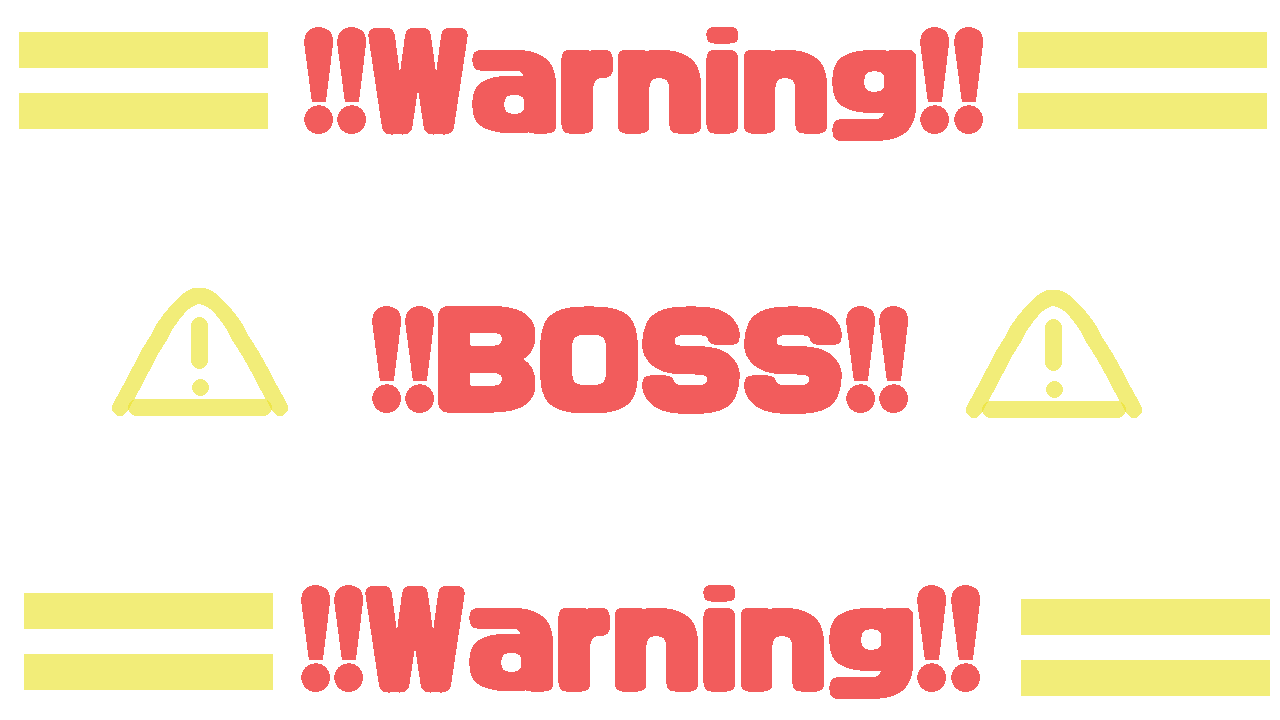
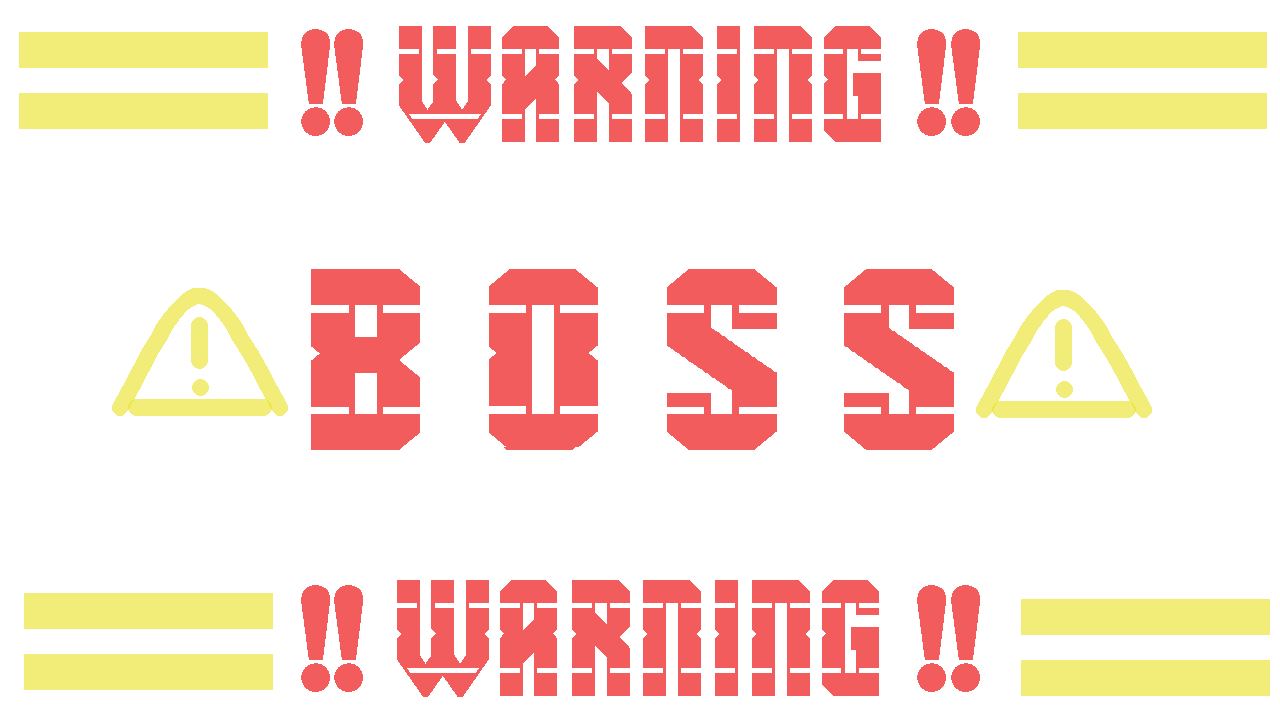
[模擬展示会後]UI系のフォントを統一するため差し替え。決定等をENTERとSPACE両方対応。ポーズ開閉をPキーに変更

Changed region(s): [[0.2188, 0.3667, 0.9062, 0.6417], [0.25, 0.0306, 0.7812, 0.2139], [0.2812, 0.7944, 0.7188, 0.9778]]

diff --git a/sln/scene/GamePlayScene.cpp b/sln/scene/GamePlayScene.cpp
@@ -198,7 +198,6 @@ void GamePlayScene::Initialize()
 
 	// スプライトの生成
 	sprite_back.reset(Sprite::Create(1, XMFLOAT3(1, 1, 1), { 0,0 }, { 1,1,1,1 }, { 0, 0 }, false, false));
-	sp_sight.reset(Sprite::Create(13, XMFLOAT3(1, 1, 1), { 0,0 }, { 1,1,1,1 }, { 0.5, 0.5 }, false, false));
 	sp_beforeboss.reset(Sprite::Create(14, XMFLOAT3(1, 1, 1), { 0,0 }, { 1,1,1,1 }, { 0, 0 }, false, false));
 	sp_ready.reset(Sprite::Create(15, XMFLOAT3(1, 1, 1), { 0,0 }, { 1,1,1,1 }, { 0, 0 }, false, false));
 	sp_ready_go.reset(Sprite::Create(16, XMFLOAT3(1, 1, 1), { 0,0 }, { 1,1,1,1 }, { 0, 0 }, false, false));
@@ -345,7 +344,7 @@ void GamePlayScene::BeforeBossAppear()
 	{
 	case BeforeBossPattern::def:
 		if (AlertSoundFlag) {
-			GameSound::GetInstance()->PlayWave("personalgame_bosswarning.wav", 0.2f, 0);
+			GameSound::GetInstance()->PlayWave("personalgame_bosswarning.wav", 0.1f, 0);
 			AlertSoundFlag = false;
 		}
 		SP_BossWarning.w -= WarningW;
@@ -1084,7 +1083,7 @@ void GamePlayScene::Update()
 
 	Input* input = Input::GetInstance();
 	ComplexInput* cInput = ComplexInput::GetInstance();
-	const bool Trigger0 = input->TriggerKey(DIK_0);
+	//const bool Trigger0 = input->TriggerKey(DIK_0);
 	const bool Trigger1 = input->TriggerKey(DIK_1);
 	//パッドトリガー
 	const bool PadTriggerStart = input->TriggerButton(static_cast<int>(Button::START));
@@ -1107,10 +1106,10 @@ void GamePlayScene::Update()
 
 	CharParameters* charParams = CharParameters::GetInstance();
 
-	if (pause->WaitKey0 < 10 && pause->GetPauseFlag() == false) {
-		pause->WaitKey0++;//ポーズから入力待つ。1フレで開いて閉じちゃうから2回押した的な感じになっちゃう
+	if (pause->WaitKeyP < 10 && pause->GetPauseFlag() == false) {
+		pause->WaitKeyP++;//ポーズから入力待つ。1フレで開いて閉じちゃうから2回押した的な感じになっちゃう
 	}
-	if (pause->WaitKey0 >= 2) {//ある程度経ったら受付
+	if (pause->WaitKeyP >= 2) {//ある程度経ったら受付
 		if (charParams->GetNowpHp() > 0 && charParams->GetNowBoHp() > 0) {//生存時
 			if (cInput->PauseOpenClose() && (GameReady() == false) && pause->GetPauseFlag() == false) {
 				pause->EveryInit();

diff --git a/sln/scene/GameOver.cpp b/sln/scene/GameOver.cpp
@@ -108,7 +108,7 @@ void GameOver::Retry()
 		}
 	}
 
-	if ((cInput->DecisionByEnter()) && CursorMoveNowFlag == false)
+	if ((cInput->Decision()) && CursorMoveNowFlag == false)
 	{
 		GameSound::GetInstance()->PlayWave("personalgame_decision.wav", 0.2f);
 		input->PadVibration();
@@ -167,7 +167,7 @@ void GameOver::GoTitle()
 		}
 	}
 
-	if ((cInput->DecisionByEnter()) && CursorMoveNowFlag == false)
+	if ((cInput->Decision()) && CursorMoveNowFlag == false)
 	{
 		GameSound::GetInstance()->PlayWave("personalgame_decision.wav", 0.2f);
 		input->PadVibration();
